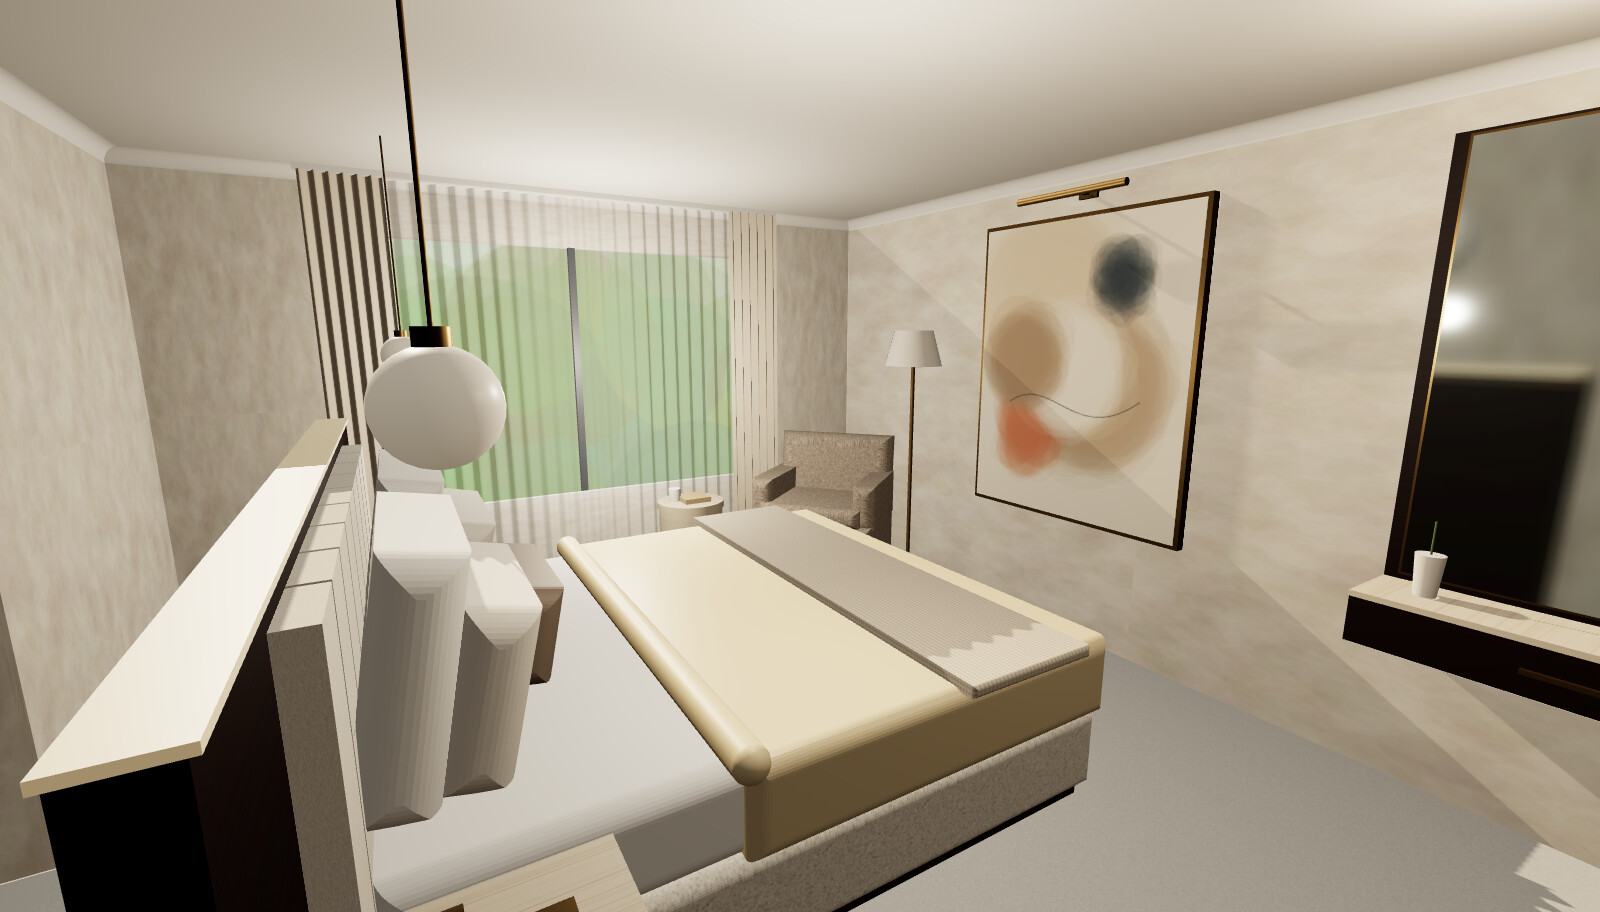
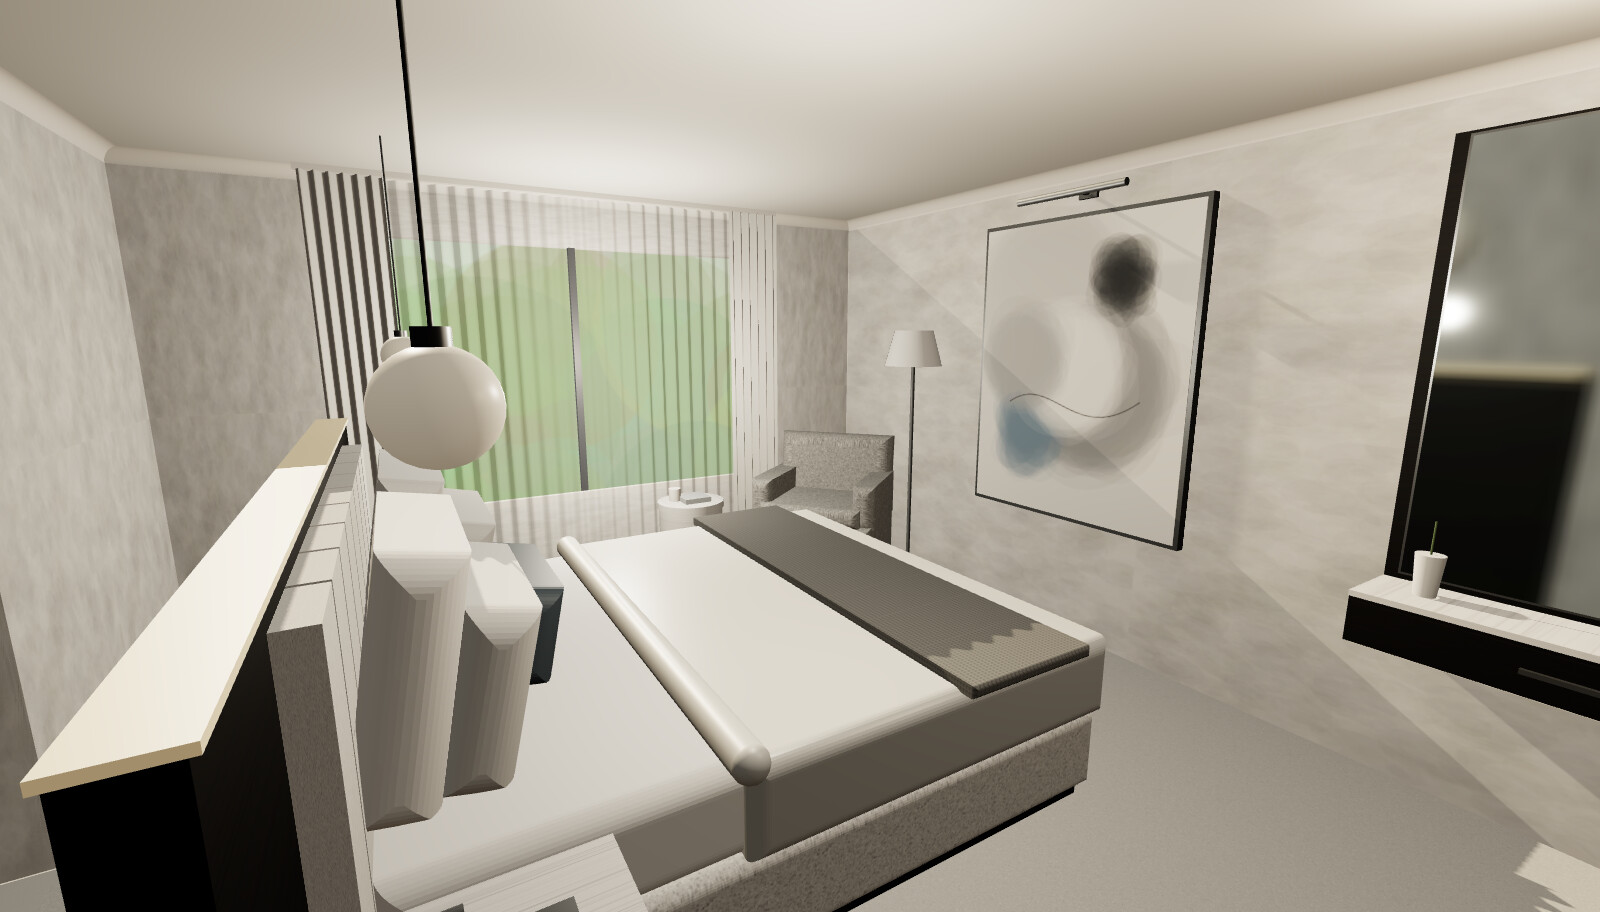
Rework colour palette to match light grey carpet
Pale stone-grey walls, oyster-grey boucle, smoked charcoal oak,
honed white marble, brushed nickel and a slate blue-grey accent
across the 3D model, renders, plan, JSON spec and Gemini prompts.
Adds a colour palette board.

Claude-Session: https://claude.ai/code/session_01P4LkCESWoGV8P5QgBbWSmy

diff --git a/renders/bedroom-1-3d.html b/renders/bedroom-1-3d.html
@@ -37,29 +37,29 @@ const oak = mat('#ffffff',0.55,0,{map: canvasTex(1024,1024,(g,w,h)=>{
     for(let k=0;k<70;k++){ g.strokeStyle=`rgba(120,85,50,${0.04+r()*0.06})`; g.lineWidth=1+r()*2; const x=i*plank+r()*plank; g.beginPath(); g.moveTo(x,0); g.bezierCurveTo(x+r()*10-5,h/3,x+r()*10-5,2*h/3,x+r()*6-3,h); g.stroke(); }
     g.fillStyle='rgba(90,60,35,0.35)'; g.fillRect(i*plank,0,2,h); const cut=r()*h; g.fillRect(i*plank,cut,plank,2); }
 },2.2,1.2)});
-const plaster = mat('#ffffff',0.95,0,{map: canvasTex(512,512,(g,w,h)=>{ g.fillStyle='#e6ddd1'; g.fillRect(0,0,w,h); const r=rnd(3);
-  for(let i=0;i<3000;i++){ const v=r()<0.5; g.fillStyle=v?`rgba(255,250,242,${r()*0.06})`:`rgba(170,155,138,${r()*0.05})`; g.beginPath(); g.arc(r()*w,r()*h,4+r()*30,0,7); g.fill(); } },2,2)});
-const ceilingM = mat('#f6f3ee',0.95);
-const walnut = mat('#5a3a24',0.55,0,{map: canvasTex(512,512,(g,w,h)=>{ g.fillStyle='#6a4529'; g.fillRect(0,0,w,h); const r=rnd(11);
-  for(let i=0;i<160;i++){ g.strokeStyle=`rgba(${r()<0.5?40:120},${r()<0.5?25:80},${r()<0.5?15:50},${0.15+r()*0.2})`; g.lineWidth=1+r()*3; const y=r()*h; g.beginPath(); g.moveTo(0,y); g.bezierCurveTo(w/3,y+r()*20-10,2*w/3,y+r()*20-10,w,y+r()*10-5); g.stroke(); } })});
-const travertine = mat('#ffffff',0.6,0,{map: canvasTex(512,512,(g,w,h)=>{ g.fillStyle='#ddd0bb'; g.fillRect(0,0,w,h); const r=rnd(5);
-  for(let i=0;i<120;i++){ g.strokeStyle=`rgba(170,150,120,${0.1+r()*0.2})`; g.lineWidth=0.5+r()*2; const y=r()*h; g.beginPath(); g.moveTo(0,y); g.lineTo(w,y+r()*8-4); g.stroke(); }
-  for(let i=0;i<300;i++){ g.fillStyle=`rgba(160,140,110,${r()*0.3})`; g.fillRect(r()*w,r()*h,1+r()*4,1); } })});
-const boucle = mat('#ffffff',1,0,{map: canvasTex(256,256,(g,w,h)=>{ g.fillStyle='#ece5d8'; g.fillRect(0,0,w,h); const r=rnd(13);
-  for(let i=0;i<4000;i++){ const v=r(); g.fillStyle=v<0.5?'rgba(255,252,245,0.5)':'rgba(190,180,165,0.35)'; g.beginPath(); g.arc(r()*w,r()*h,0.8+r()*1.8,0,7); g.fill(); } },3,3)});
-const taupeBoucle = mat('#ffffff',1,0,{map: canvasTex(256,256,(g,w,h)=>{ g.fillStyle='#a8998a'; g.fillRect(0,0,w,h); const r=rnd(17);
-  for(let i=0;i<4000;i++){ const v=r(); g.fillStyle=v<0.5?'rgba(215,205,190,0.45)':'rgba(110,98,86,0.35)'; g.beginPath(); g.arc(r()*w,r()*h,0.8+r()*1.8,0,7); g.fill(); } },3,3)});
-const sheet = mat('#fbfaf7',0.75);
-const duvet = mat('#e5d3ad',0.45,0.05);
-const velvet = mat('#9a8a7a',0.6,0.05);
-const knit = mat('#ffffff',1,0,{map: canvasTex(256,256,(g,w,h)=>{ g.fillStyle='#d8cdbd'; g.fillRect(0,0,w,h); for(let x=0;x<w;x+=16){ for(let y=0;y<h;y+=12){ g.fillStyle='rgba(120,105,88,0.35)'; g.beginPath(); g.ellipse(x+8,y+6,6,5,0,0,7); g.fill(); g.fillStyle='rgba(255,250,240,0.35)'; g.beginPath(); g.ellipse(x+6,y+4,3,2,0,0,7); g.fill(); } } },4,4)});
-const brass = mat('#b08d57',0.3,0.9);
+const plaster = mat('#ffffff',0.95,0,{map: canvasTex(512,512,(g,w,h)=>{ g.fillStyle='#e2e1de'; g.fillRect(0,0,w,h); const r=rnd(3);
+  for(let i=0;i<3000;i++){ const v=r()<0.5; g.fillStyle=v?`rgba(252,252,250,${r()*0.06})`:`rgba(150,150,148,${r()*0.05})`; g.beginPath(); g.arc(r()*w,r()*h,4+r()*30,0,7); g.fill(); } },2,2)});
+const ceilingM = mat('#f6f6f4',0.95);
+const walnut = mat('#4a4744',0.6,0,{map: canvasTex(512,512,(g,w,h)=>{ g.fillStyle='#57534f'; g.fillRect(0,0,w,h); const r=rnd(11);
+  for(let i=0;i<160;i++){ g.strokeStyle=`rgba(${r()<0.5?40:110},${r()<0.5?38:105},${r()<0.5?36:100},${0.15+r()*0.2})`; g.lineWidth=1+r()*3; const y=r()*h; g.beginPath(); g.moveTo(0,y); g.bezierCurveTo(w/3,y+r()*20-10,2*w/3,y+r()*20-10,w,y+r()*10-5); g.stroke(); } })});
+const travertine = mat('#ffffff',0.6,0,{map: canvasTex(512,512,(g,w,h)=>{ g.fillStyle='#ecebe9'; g.fillRect(0,0,w,h); const r=rnd(5);
+  for(let i=0;i<120;i++){ g.strokeStyle=`rgba(140,142,145,${0.08+r()*0.18})`; g.lineWidth=0.5+r()*2; const y=r()*h; g.beginPath(); g.moveTo(0,y); g.lineTo(w,y+r()*8-4); g.stroke(); }
+  for(let i=0;i<300;i++){ g.fillStyle=`rgba(150,152,155,${r()*0.2})`; g.fillRect(r()*w,r()*h,1+r()*4,1); } })});
+const boucle = mat('#ffffff',1,0,{map: canvasTex(256,256,(g,w,h)=>{ g.fillStyle='#e4e3e0'; g.fillRect(0,0,w,h); const r=rnd(13);
+  for(let i=0;i<4000;i++){ const v=r(); g.fillStyle=v<0.5?'rgba(252,252,250,0.5)':'rgba(170,170,168,0.35)'; g.beginPath(); g.arc(r()*w,r()*h,0.8+r()*1.8,0,7); g.fill(); } },3,3)});
+const taupeBoucle = mat('#ffffff',1,0,{map: canvasTex(256,256,(g,w,h)=>{ g.fillStyle='#a6a6a3'; g.fillRect(0,0,w,h); const r=rnd(17);
+  for(let i=0;i<4000;i++){ const v=r(); g.fillStyle=v<0.5?'rgba(215,215,212,0.45)':'rgba(100,100,98,0.35)'; g.beginPath(); g.arc(r()*w,r()*h,0.8+r()*1.8,0,7); g.fill(); } },3,3)});
+const sheet = mat('#fbfbfa',0.75);
+const duvet = mat('#d2d3d1',0.4,0.08);
+const velvet = mat('#5f6b74',0.55,0.05);
+const knit = mat('#ffffff',1,0,{map: canvasTex(256,256,(g,w,h)=>{ g.fillStyle='#7d7d7b'; g.fillRect(0,0,w,h); for(let x=0;x<w;x+=16){ for(let y=0;y<h;y+=12){ g.fillStyle='rgba(60,60,60,0.35)'; g.beginPath(); g.ellipse(x+8,y+6,6,5,0,0,7); g.fill(); g.fillStyle='rgba(200,200,198,0.3)'; g.beginPath(); g.ellipse(x+6,y+4,3,2,0,0,7); g.fill(); } } },4,4)});
+const brass = mat('#b9bdc0',0.32,0.9);
 const black = mat('#101114',0.35,0.3);
 const carpet = mat('#ffffff',1,0,{map: canvasTex(512,512,(g,w,h)=>{ g.fillStyle='#c4c4c1'; g.fillRect(0,0,w,h); const r=rnd(29);
   for(let i=0;i<14000;i++){ const v=r(); g.fillStyle=v<0.5?`rgba(235,235,232,${0.25+r()*0.2})`:`rgba(150,150,148,${0.2+r()*0.2})`; g.fillRect(r()*w,r()*h,1+r()*1.5,1+r()*2); } },8,10)});
 const creamRug = mat('#ffffff',1,0,{map: canvasTex(256,256,(g,w,h)=>{ g.fillStyle='#ece5d8'; g.fillRect(0,0,w,h); const r=rnd(23); for(let i=0;i<5000;i++){ g.fillStyle=`rgba(${r()<0.5?255:200},${r()<0.5?250:190},${r()<0.5?240:175},0.3)`; g.fillRect(r()*w,r()*h,1,2); } },6,6)});
-const linen = mat('#cbbfae',0.95,0,{side:THREE.DoubleSide});
-const sheerM = mat('#fffdf8',0.9,0,{transparent:true,opacity:0.38,side:THREE.DoubleSide});
+const linen = mat('#cfcecb',0.95,0,{side:THREE.DoubleSide});
+const sheerM = mat('#fdfdfc',0.9,0,{transparent:true,opacity:0.38,side:THREE.DoubleSide});
 const glassM = new THREE.MeshPhysicalMaterial({color:'#fff6e6',roughness:0.15,transmission:0.6,transparent:true,opacity:0.55});
 
 // ---------- Room shell ----------
@@ -119,7 +119,7 @@ drape(1.0,3.0,RL-0.1,sheerM,22,0.02);                                       // s
 // ---------- King bed (centre z = 2.85) ----------
 const bz0=1.885, bz1=3.815, bx0=1.05, bx1=3.15;
 rbox(bx1-bx0,0.28,bz1-bz0,0.04,boucle,(bx0+bx1)/2,0.2,(bz0+bz1)/2);
-box(bx0+0.02,bx1-0.02,0.0,0.06,bz0+0.05,bz1-0.05,mat('#3a2a1e',0.6)); // shadow gap plinth
+box(bx0+0.02,bx1-0.02,0.0,0.06,bz0+0.05,bz1-0.05,mat('#2c2b2a',0.6)); // shadow gap plinth
 rbox(bx1-bx0-0.06,0.26,bz1-bz0-0.06,0.06,sheet,(bx0+bx1)/2,0.45,(bz0+bz1)/2);
 // duvet folded back over the foot two-thirds, draping over sides
 rbox(2.38-bx0,0.27,bz1-bz0+0.05,0.05,duvet,(bx0+2.38)/2-0.01,0.47,(bz0+bz1)/2).receiveShadow=false;
@@ -132,7 +132,7 @@ box(3.2,3.3,0,1.2,1.4,4.3,walnut);                           // freestanding hea
 box(3.19,3.31,1.2,1.215,1.4,4.3,mat('#fff3d6',0.4,0,{emissive:'#ffdca0',emissiveIntensity:0.15})); // LED edge (off-ish)
 // pillows
 function pillow(x,y,z,w,h,d,m,tilt){ const o=rbox(d,h,w,Math.min(d,h)*0.45,m,x,y,z); o.rotation.z=tilt; return o; }
-for(const zc of [2.45,3.25]){ pillow(3.03,0.86,zc,0.74,0.6,0.18,mat('#f8f6f1',0.85),0.18); pillow(2.88,0.78,zc,0.68,0.44,0.17,mat('#efe9df',0.85),0.22); }
+for(const zc of [2.45,3.25]){ pillow(3.03,0.86,zc,0.74,0.6,0.18,mat('#f7f7f6',0.85),0.18); pillow(2.88,0.78,zc,0.68,0.44,0.17,mat('#e2e3e2',0.85),0.22); }
 pillow(2.72,0.72,2.85,0.6,0.3,0.15,velvet,0.2);
 
 
@@ -148,8 +148,8 @@ for(const [z0,z1] of [[1.385,1.885],[3.815,4.315]]){
   cyl(2.95,1.59,(z0+z1)/2,0.025,0.025,0.035,brass);
 }
 // styling on south nightstand (window side): books, carafe, bud vase
-box(2.78,3.06,0.56,0.6,3.95,4.15,mat('#d9cfc0',0.8)); box(2.8,3.04,0.6,0.625,3.97,4.13,mat('#3e4a52',0.7));
-cyl(2.85,0.62,4.22,0.035,0.04,0.12,mat('#e9efe9',0.1,0,{transparent:true,opacity:0.5})); cyl(3.05,0.64,3.9,0.025,0.02,0.08,mat('#efe9df',0.4));
+box(2.78,3.06,0.56,0.6,3.95,4.15,mat('#d6d7d8',0.8)); box(2.8,3.04,0.6,0.625,3.97,4.13,mat('#3e4a52',0.7));
+cyl(2.85,0.62,4.22,0.035,0.04,0.12,mat('#e9efe9',0.1,0,{transparent:true,opacity:0.5})); cyl(3.05,0.64,3.9,0.025,0.02,0.08,mat('#f1f1ef',0.4));
 cyl(3.05,0.72,3.9,0.004,0.004,0.1,mat('#5d7a4c',0.8),6); pillow(3.05,0.78,3.9,0.05,0.04,0.05,mat('#fffaf2',0.7),0);
 // north nightstand: small clock + tray
 box(2.8,3.08,0.56,0.57,1.5,1.75,brass); cyl(3.0,0.62,1.7,0.05,0.05,0.04,brass).rotation.z=Math.PI/2;
@@ -157,10 +157,10 @@ box(2.8,3.08,0.56,0.57,1.5,1.75,brass); cyl(3.0,0.62,1.7,0.05,0.05,0.04,brass).r
 // ---------- West wall: plain limewash plaster (no panelling, no TV) ----------
 // Large abstract artwork centred on bed (z 2.85): 1.2m wide x 1.5m high, bottom 0.65m, thin brass floater frame, brass picture light
 { const ART=P.get('art')||'portrait'; const AW=ART==='landscape'?1.8:1.2, AH=ART==='landscape'?0.9:1.5, AB=ART==='landscape'?1.0:0.65, ZC=2.85, LY=AB+AH+0.1;
-  const art=canvasTex(ART==='landscape'?900:600,ART==='landscape'?450:750,(g,w,h)=>{ g.fillStyle='#ece3d4'; g.fillRect(0,0,w,h); const r=rnd(41);
-    const blobs=[['#d9c7ad',0.35,0.3,0.42],['#b89f84',0.62,0.55,0.34],['#c77d5a',0.3,0.72,0.16],['#3f4a52',0.7,0.2,0.1],['#efe6d6',0.5,0.5,0.25],['#a68c72',0.25,0.45,0.2]];
+  const art=canvasTex(ART==='landscape'?900:600,ART==='landscape'?450:750,(g,w,h)=>{ g.fillStyle='#ececea'; g.fillRect(0,0,w,h); const r=rnd(41);
+    const blobs=[['#cfd0cf',0.35,0.3,0.42],['#9c9e9f',0.62,0.55,0.34],['#7f95a6',0.3,0.72,0.16],['#3a3d40',0.7,0.2,0.1],['#f1f1ef',0.5,0.5,0.25],['#b5b7b8',0.25,0.45,0.2]];
     for(const [c,x,y,rr] of blobs){ for(let i=0;i<60;i++){ g.globalAlpha=0.05+r()*0.06; g.fillStyle=c; g.beginPath(); g.ellipse(x*w+(r()-0.5)*w*0.15,y*h+(r()-0.5)*h*0.15,rr*w*(0.6+r()*0.5),rr*h*(0.4+r()*0.4),r()*3,0,7); g.fill(); } }
-    g.globalAlpha=0.6; g.strokeStyle='#3f4a52'; g.lineWidth=3; g.beginPath(); g.moveTo(w*0.18,h*0.62); g.bezierCurveTo(w*0.4,h*0.5,w*0.55,h*0.75,w*0.82,h*0.58); g.stroke(); g.globalAlpha=1; });
+    g.globalAlpha=0.6; g.strokeStyle='#3a3d40'; g.lineWidth=3; g.beginPath(); g.moveTo(w*0.18,h*0.62); g.bezierCurveTo(w*0.4,h*0.5,w*0.55,h*0.75,w*0.82,h*0.58); g.stroke(); g.globalAlpha=1; });
   box(0.0,0.045,AB-0.02,AB+AH+0.02,ZC-AW/2-0.02,ZC+AW/2+0.02,brass);                                   // floater frame
   box(0.045,0.05,AB,AB+AH,ZC-AW/2,ZC+AW/2,mat('#ffffff',0.9,0,{map:art}));          // canvas face
   // rotate texture to face east: draw on a plane instead for correct orientation
@@ -180,9 +180,9 @@ const bk=rbox(0.8,0.48,0.2,0.09,taupeBoucle,0,0.66,-0.3,nook); bk.rotation.x=-0.
 const al=rbox(0.14,0.28,0.66,0.06,taupeBoucle,-0.34,0.52,-0.02,nook); const ar=rbox(0.14,0.28,0.66,0.06,taupeBoucle,0.34,0.52,-0.02,nook);
 // (no rug under chair)
 cyl(1.43,0.25,4.58,0.2,0.2,0.5,travertine); cyl(1.43,0.52,4.58,0.21,0.21,0.04,travertine);
-box(1.33,1.5,0.54,0.57,4.48,4.66,mat('#c9b48e',0.8)); cyl(1.52,0.58,4.62,0.04,0.035,0.08,mat('#fdfbf6',0.3));
+box(1.33,1.5,0.54,0.57,4.48,4.66,mat('#bfc3c6',0.8)); cyl(1.52,0.58,4.62,0.04,0.035,0.08,mat('#fdfbf6',0.3));
 cyl(0.15,0.75,3.95,0.012,0.012,1.5,brass,8); cyl(0.15,0.01,3.95,0.12,0.14,0.02,brass);
-cyl(0.15,1.5,3.95,0.12,0.18,0.22,mat('#f3ecdf',0.9,0,{side:THREE.DoubleSide}),32);
+cyl(0.15,1.5,3.95,0.12,0.18,0.22,mat('#f4f4f2',0.9,0,{side:THREE.DoubleSide}),32);
 
 // ---------- Dressing spot: integrated wall-hung mirror + drawer unit on west wall, north end (z 0.5-1.5) ----------
 // walnut backing panel 1.0m wide, from 0.57m to 2.22m; floor below left clear
@@ -194,8 +194,8 @@ box(0.305,0.32,0.64,0.655,0.92,1.08,brass);
 box(0.03,0.31,0.73,0.75,0.5,1.5,travertine);
 box(0.04,0.29,0.565,0.57,0.52,1.48,mat('#fff2d4',0.5,0,{emissive:'#ffcf8a',emissiveIntensity:0.4}),false,false);
 // styling on drawer top: brass tray with comb + perfume, bud vase
-box(0.08,0.24,0.75,0.762,0.62,0.9,brass); cyl(0.14,0.8,0.7,0.025,0.025,0.08,mat('#e9efe9',0.1,0,{transparent:true,opacity:0.6})); box(0.1,0.22,0.762,0.77,0.78,0.86,mat('#3a2a1e',0.5));
-cyl(0.16,0.82,1.35,0.04,0.03,0.14,mat('#efe9df',0.5)); cyl(0.16,0.94,1.35,0.003,0.003,0.12,mat('#6b7f58',0.8),6);
+box(0.08,0.24,0.75,0.762,0.62,0.9,brass); cyl(0.14,0.8,0.7,0.025,0.025,0.08,mat('#e9efe9',0.1,0,{transparent:true,opacity:0.6})); box(0.1,0.22,0.762,0.77,0.78,0.86,mat('#2c2b2a',0.5));
+cyl(0.16,0.82,1.35,0.04,0.03,0.14,mat('#f1f1ef',0.5)); cyl(0.16,0.94,1.35,0.003,0.003,0.12,mat('#6b7f58',0.8),6);
 // mirror inset above drawer: 0.9m wide x 1.42m high (0.78m to 2.2m), thin brass edge
 box(0.03,0.04,0.77,2.21,0.54,1.46,brass);
 const cubeRT=new THREE.WebGLCubeRenderTarget(512); const cubeCam=new THREE.CubeCamera(0.05,20,cubeRT);
